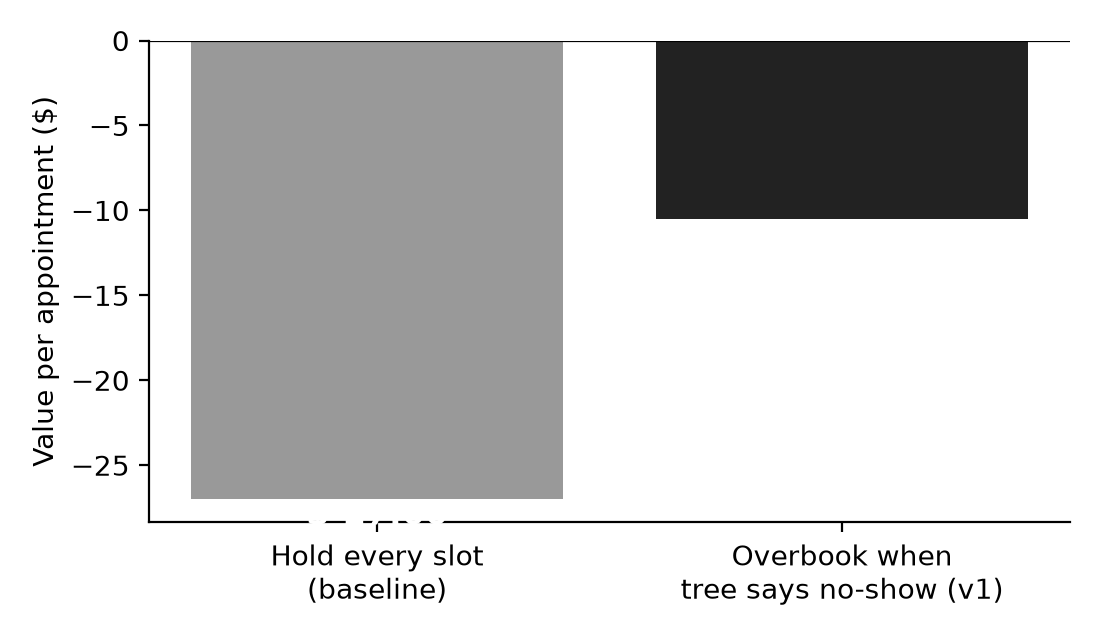
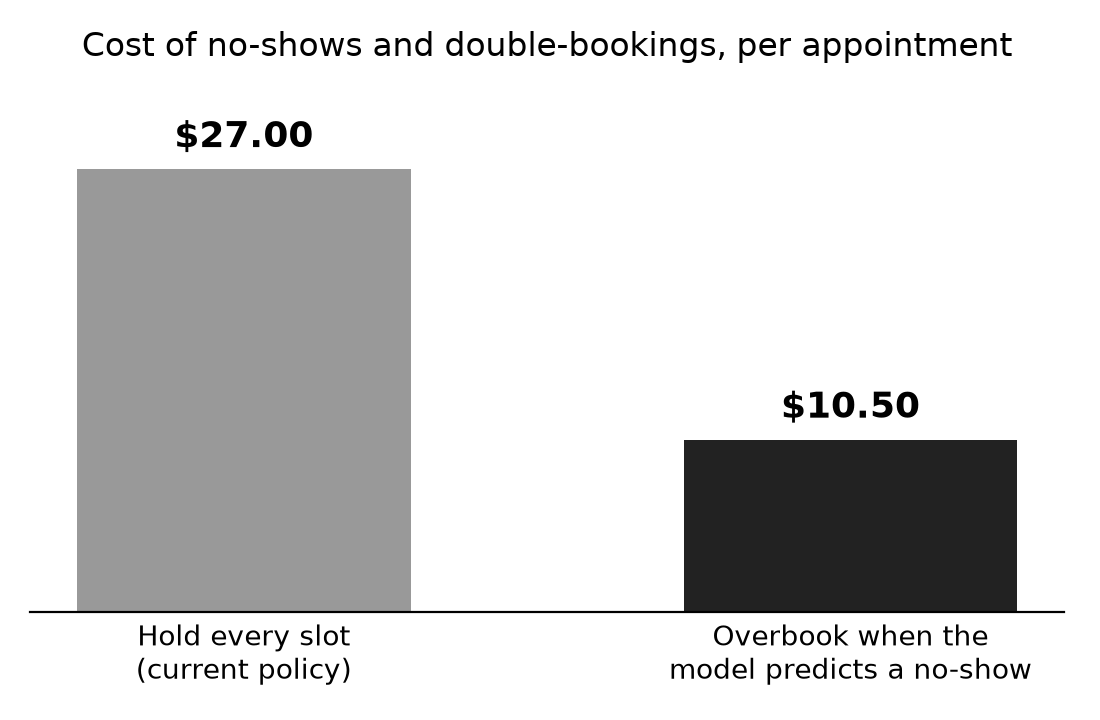
updated value/appt and add D&E

diff --git a/analysis.py b/analysis.py
@@ -162,18 +162,58 @@ fig.tight_layout()
 fig.savefig(OUT / "confusion_matrices.png", dpi=200)
 plt.close(fig)
 
-fig, ax = plt.subplots(figsize=(5.5, 3.2))
-bars = ax.bar(["Hold every slot\n(baseline)", "Overbook when\ntree says no-show (v1)"],
-              results["per_appt"], color=["#999999", "#222222"])
-for bar, val in zip(bars, results["per_appt"]):
-    ax.text(bar.get_x() + bar.get_width() / 2, val, f"${val:.2f}", ha="center", va="top",
-            color="white", fontsize=12, fontweight="bold")
-ax.axhline(0, color="black", lw=0.8)
-ax.set_ylabel("Value per appointment ($)")
-ax.spines[["top", "right"]].set_visible(False)
+# Money lost per appointment, drawn as upward bars (losses shown as positive amounts)
+loss = -results["per_appt"]
+saving = loss.iloc[0] - loss.iloc[1]
+fig, ax = plt.subplots(figsize=(5.5, 3.6))
+bars = ax.bar(["Hold every slot\n(current policy)", "Overbook when the\nmodel predicts a no-show"],
+              loss, color=["#999999", "#222222"], width=0.55)
+for bar, val in zip(bars, loss):
+    ax.text(bar.get_x() + bar.get_width() / 2, val + loss.max() * 0.03, f"${val:.2f}",
+            ha="center", va="bottom", fontsize=13, fontweight="bold")
+ax.set_title(f"Cost of no-shows and double-bookings, per appointment",
+             fontsize=12, pad=12)
+ax.set_ylim(0, loss.max() * 1.18)
+ax.set_yticks([])
+ax.spines[["top", "right", "left"]].set_visible(False)
+ax.tick_params(axis="x", length=0, labelsize=10)
 fig.tight_layout()
 fig.savefig(OUT / "value_per_appt.png", dpi=200)
 plt.close(fig)
 
+# Tree with the paths for appointments D and E highlighted (labelled Patient 1 and Patient 2)
+PATIENTS = [("Patient 1", D, "#1f6fb2"), ("Patient 2", E, "#d9822b")]
+fig, ax = plt.subplots(figsize=(16, 7.5))
+drawn = plot_tree(v1, feature_names=FEATURES, class_names=["show", "no-show"], filled=False,
+                  rounded=True, impurity=False, fontsize=10, ax=ax)
+# plot_tree also draws "True"/"False" edge labels (no box); the boxed ones are the nodes, in node-id
+# order, so annots[i] is node i and its arrow comes from the parent
+annots = [a for a in drawn if a.get_bbox_patch() is not None]
+assert len(annots) == v1.tree_.node_count
+for a in annots:
+    a.get_bbox_patch().set(facecolor="white", edgecolor="#bbbbbb", linewidth=1)
+    if a.arrow_patch is not None:
+        a.arrow_patch.set(color="#bbbbbb", linewidth=1)
+path_nodes = {}
+for name, appt, color in PATIENTS:
+    nodes = v1.decision_path(pd.DataFrame([appt])[FEATURES]).indices
+    for n in nodes:
+        path_nodes.setdefault(n, []).append(color)
+        if annots[n].arrow_patch is not None and n != nodes[0]:
+            annots[n].arrow_patch.set(color=color, linewidth=3)
+    leaf = annots[nodes[-1]]
+    ax.annotate(f"{name}\n{decide(appt).upper()}", xy=leaf.get_position(), xycoords=leaf.xycoords,
+                xytext=(0, -62), textcoords="offset points", ha="center", va="top",
+                fontsize=12, fontweight="bold", color=color)
+for n, colors in path_nodes.items():
+    box = annots[n].get_bbox_patch()
+    box.set(edgecolor=colors[0] if len(colors) == 1 else "#222222", linewidth=3)
+    if len(colors) > 1 and annots[n].arrow_patch is not None:  # step shared by both patients
+        annots[n].arrow_patch.set(color="#222222", linewidth=3)
+    box.set_facecolor("#e8f1fa" if colors == ["#1f6fb2"] else "#fbeee0" if colors == ["#d9822b"]
+                      else "#eeeeee")
+fig.savefig(OUT / "tree_patients.png", dpi=200, bbox_inches="tight")
+plt.close(fig)
+
 (OUT / "results.txt").write_text("\n".join(lines) + "\n")
-print(f"\nSaved: {OUT}/results.txt, results.csv, tree_v1.png, confusion_matrices.png, value_per_appt.png")
+print(f"\nSaved: {OUT}/results.txt, results.csv, tree_v1.png, tree_patients.png, confusion_matrices.png, value_per_appt.png")
